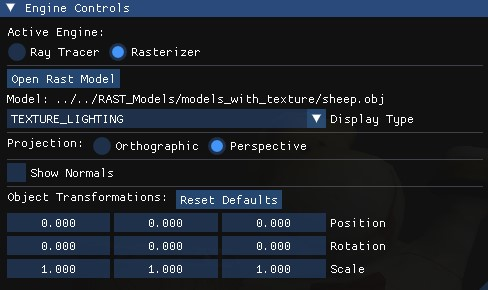
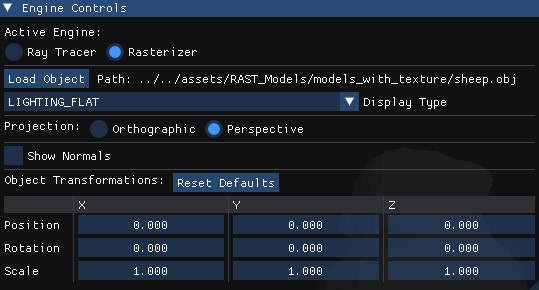
UI layout changes
Changed UI layout and added images to display in README

diff --git a/src/Core/Application.cpp b/src/Core/Application.cpp
@@ -17,6 +17,13 @@
 #include <glm/glm.hpp>
 #include <magic_enum.hpp>
 
+// Rasterization transformation rows values
+struct TransformRow {
+    const char* name;
+    glm::vec3* data;
+    float step;
+};
+
 Application::Application() 
     : m_RayTracerWorld(DefaultParams::IMAGE_WIDTH, DefaultParams::IMAGE_HEIGHT, 90.0f),
       m_RasterizerWorld(DefaultParams::IMAGE_WIDTH, DefaultParams::IMAGE_HEIGHT) {
@@ -156,10 +163,15 @@ void Application::ProcessEvents() {
 }
 
 void Application::HandleOpenFile() {
+    // Dynamically check if the folders exist right next to the .exe (Release ZIP).
+    // If not, fall back to the IDE development path.
+    std::string rastPath = std::filesystem::exists("RAST_MOodels") ? "RAST_Models" : "../../assets/RAST_Models";
+    std::string rtPath = std::filesystem::exists("RT_Models") ? "RT_Models" : "../../assets/RT_Models";
+
     // Determine the starting folder based on which engine is currently active
     std::string modelsDir = (m_CurrentMode == EngineMode::RASTERIZATION) 
-        ? std::filesystem::absolute("../../assets/RAST_Models").string() 
-        : std::filesystem::absolute("../../assets/RT_Models").string();
+        ? std::filesystem::absolute(rastPath).string() 
+        : std::filesystem::absolute(rtPath).string();
 
     std::string newPath = (m_CurrentMode == EngineMode::RASTERIZATION) 
         ? PlatformUtils::openFileChooser("obj", modelsDir)
@@ -195,10 +207,11 @@ void Application::RenderUI() {
     ImGui::Separator();
 
     if (m_CurrentMode == EngineMode::RAY_TRACING) {
-        if (ImGui::Button("Open RT Model")) {
+        if (ImGui::Button("Load Model")) {
             HandleOpenFile();
         }
-        ImGui::TextWrapped("Model: %s", m_Params.getRtModelFileName().c_str());
+        ImGui::SameLine();
+        ImGui::TextWrapped("Path: %s", m_Params.getRtModelFileName().c_str());
 
         std::string currentExerciseName = std::string(magic_enum::enum_name(static_cast<RayTracingDisplayTypeEnum>(m_SelectedRtDisplay)));
         if (ImGui::BeginCombo("Display Type:", currentExerciseName.c_str())) {
@@ -279,10 +292,11 @@ void Application::RenderUI() {
         }
     }
     else {
-        if (ImGui::Button("Open Rast Model")) {
+        if (ImGui::Button("Load Object")) {
             HandleOpenFile();
         }
-        ImGui::TextWrapped("Model: %s", m_Params.getRastModelFileName().c_str());
+        ImGui::SameLine();
+        ImGui::TextWrapped("Path: %s", m_Params.getRastModelFileName().c_str());
 
         std::string currentDisplayTypeName = std::string(magic_enum::enum_name(m_RasterizerWorld.displayType));
         if (ImGui::BeginCombo("Display Type", currentDisplayTypeName.c_str())) {
@@ -325,9 +339,48 @@ void Application::RenderUI() {
             m_RasterizerWorld.objectScale = glm::vec3(DefaultParams::MODEL_SCALE);
             m_UpdateWindowFlag = true;
         }
-        if (ImGui::DragFloat3("Position", &m_RasterizerWorld.objectPosition.x, 0.1f)) { m_UpdateWindowFlag = true; }
-        if (ImGui::DragFloat3("Rotation", &m_RasterizerWorld.objectRotation.x, 1.0f)) { m_UpdateWindowFlag = true; }
-        if (ImGui::DragFloat3("Scale", &m_RasterizerWorld.objectScale.x, 0.05f)) { m_UpdateWindowFlag = true; }
+        // Modern ImGui Table for aligned X, Y, Z headers
+        if (ImGui::BeginTable("TransformTable", 4, ImGuiTableFlags_BordersInnerV | ImGuiTableFlags_SizingStretchSame)) {
+            
+            // --- Table Headers ---
+            ImGui::TableSetupColumn("", ImGuiTableColumnFlags_WidthFixed, 65.0f); 
+            ImGui::TableSetupColumn("X", ImGuiTableColumnFlags_WidthStretch);
+            ImGui::TableSetupColumn("Y", ImGuiTableColumnFlags_WidthStretch);
+            ImGui::TableSetupColumn("Z", ImGuiTableColumnFlags_WidthStretch);
+            ImGui::TableHeadersRow();
+
+            TransformRow rows[] = {
+                {"Position", &m_RasterizerWorld.objectPosition, 0.1f},
+                {"Rotation", &m_RasterizerWorld.objectRotation, 1.0f},
+                {"Scale", &m_RasterizerWorld.objectScale, 0.05f}
+            };
+
+            const char* axes[] = {"X", "Y", "Z"};
+            for (int r = 0; r < 3; r++) {
+                ImGui::TableNextRow();
+                
+                ImGui::TableNextColumn();
+                ImGui::AlignTextToFramePadding();
+                ImGui::TextUnformatted(rows[r].name); // Draw property name
+
+                // Loop through the 3 axes (X, Y, Z)
+                for (int i = 0; i < 3; i++) {
+                    ImGui::TableNextColumn();
+                    ImGui::PushItemWidth(-FLT_MIN);
+                    
+                    // Unique hidden ID for ImGui to track (e.g., "##PositionX")
+                    std::string label = "##" + std::string(rows[r].name) + axes[i];
+                    
+                    // Access the glm::vec3 variables dynamically using [i]
+                    if (ImGui::DragFloat(label.c_str(), &(*rows[r].data)[i], rows[r].step)) {
+                        m_UpdateWindowFlag = true;
+                    }
+                    
+                    ImGui::PopItemWidth();
+                }
+            }
+            ImGui::EndTable();
+        }
     }
     ImGui::End();
 }

diff --git a/src/Core/DefaultParams.h b/src/Core/DefaultParams.h
@@ -9,8 +9,8 @@
  */
 namespace DefaultParams {
     
-    constexpr int IMAGE_WIDTH = 600;
-    constexpr int IMAGE_HEIGHT = 600;
+    constexpr int IMAGE_WIDTH = 800;
+    constexpr int IMAGE_HEIGHT = 800;
 
     // --- Ray Tracer default model ---
     inline const std::string RT_MODEL_FILE_NAME = "RT_Models/ex_02___skybox_with_direction_labels.model";

diff --git a/README.md b/README.md
@@ -19,10 +19,16 @@ This project is a C++ port of a basic Java university course project, built from
 
 ## Showcase
 
-| | Ray Tracing | Rasterization |
-| :---: | :---: | :---: |
-| **Clean Render** | ![Ray Tracing Render](assets/images/RayTracing-Example.jpg) | ![Rasterization Render](assets/images/Rasterization-Example.jpg) |
-| **UI Controls** | ![Ray Tracing Controls](assets/images/RayTracing-Controls.jpg) | ![Rasterization Controls](assets/images/Rasterization-Controls.jpg) |
+### Ray Tracing
+| **Texture** | **Reflection** | **Transparency** | **UI Controls** |
+| :---: | :---: | :---: | :---: |
+|![Texture](assets/images/Texture.jpg.jpg) | ![Reflection](assets/images/Reflection.jpg.jpg) |
+| ![Transparency](assets/images/Transparency.jpg.jpg) | ![UI Controls](assets/images/Rasterization-Controls.jpg) |
+
+### Rasterization
+| **Wireframe (Face Edges)** | **Flat Shading** | **Texture + Lighting** | **UI Controls** |
+| :---: | :---: | :---: | :---: |
+| ![Face Edges](assets/images/Face-Edges.jpg) | ![Lighting Flat](assets/images/Lighting-Flat.jpg) | ![Texture Lighting](assets/images/Texture-Lighting.jpg) | ![Rasterization Controls](assets/images/Rasterization-Controls.jpg) |
 
 
 ## Engine Architecture & Pipelines
@@ -154,7 +160,7 @@ The engine features a comprehensive ImGui overlay for real-time parameter tuning
 * **File Loading:** Open native system file dialogs to load custom `.obj` (Rasterizer) or `.model` (Ray Tracer) assets.
 
 ### Ray Tracer Mode
-* **Display Type:** Step through the mathematical stages of the pipeline (e.g., Rays Calculation, Rays Intersections, Texture, Reflections, Transparency).
+* **Display Type:** Step through the mathematical stages of the pipeline (e.g., Rays Calculation, Rays Intersections, Texture, Reflections, Transparency). **Note:** Because these display types function as progressive engine stages, you must load the `.model` file whose prefix number matches the selected stage in the dropdown list (e.g., load `ex_5_...` for Texture, or `ex_07_...` for Reflection) so the engine receives the correct mathematical parameters.
 * **Depth of Field:** Real-time sliders to adjust the simulated Aperture Radius and Focal Distance.
 * **Sampling Parameters:** Dropdown menus to scale the processing load by adjusting Antialiasing Samples, Light Radius (for area lighting), and Soft Shadow Samples.
 
